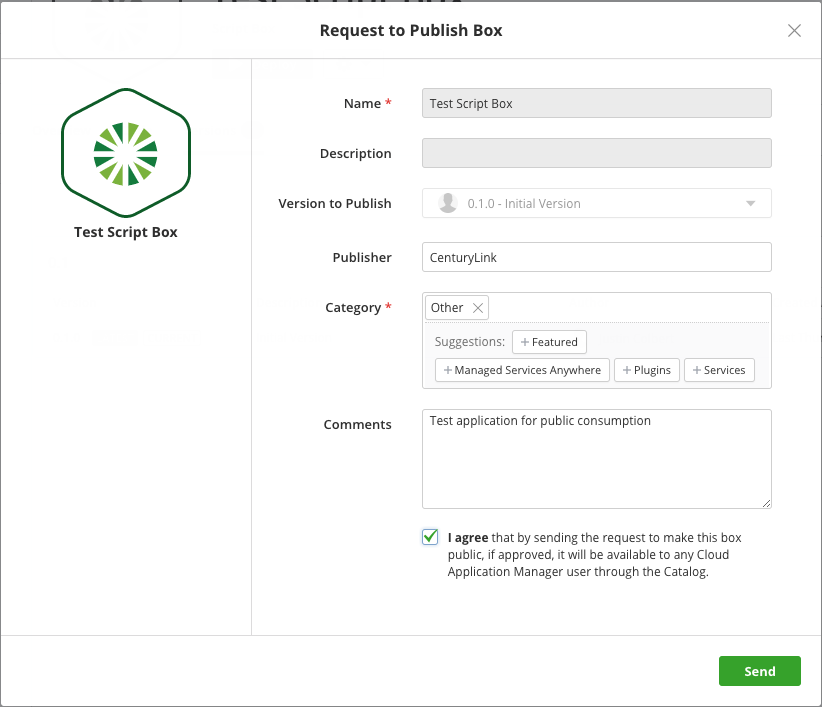
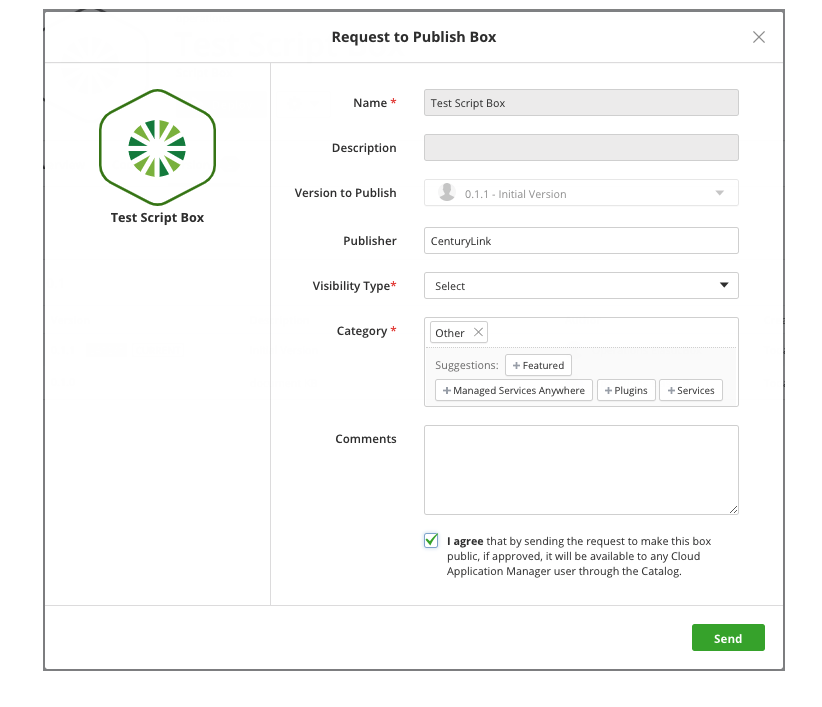
Add visibility type in Publish Box

diff --git a/Cloud Application Manager/Tutorials/publish-script-box.md b/Cloud Application Manager/Tutorials/publish-script-box.md
@@ -20,7 +20,19 @@ Click on the gear next to the version of your application that you would like to
 
 ![public-box-publish.png](../../images/cloud-application-manager/public-box-publish.png)
 
-Fill out the "Request to Publish Box" form. The "Publisher" field should be either your name, your team's name, or your company name. The "Category" field will specify what section of the catalog your box will be displayed under. Add any additional comments that you would like to be submitted to the Cloud Application Manager administrators, check the "I agree" box and hit send.
+Fill out the "Request to Publish Box" form. 
+
+* "Publisher": should be either your name, your team's name, or your company name. 
+
+* "Visibility Type": will specify wether the box should be published as:
+
+    * *Open*: box will be made public as open-source
+    * *Execute*: box will be made public as execute-only, so it will only be deployable and only public variables will be visible.
+    * *Closed*: box will be published with its event source code as hidden. Only public variables will be visible. The box can be deployed directly or it can be embedded into another box as a box variable to be deployed as part of the enclosing box deployment.
+
+* "Category": will specify what section of the catalog your box will be displayed under. You can use an existing Category name or suggest a new one be created.
+
+Add any additional comments that you would like to be submitted to the Cloud Application Manager administrators, check the "I agree" box and hit send.
 
 ![public-box-version-template.png](../../images/cloud-application-manager/public-box-publish-template.png)
 
